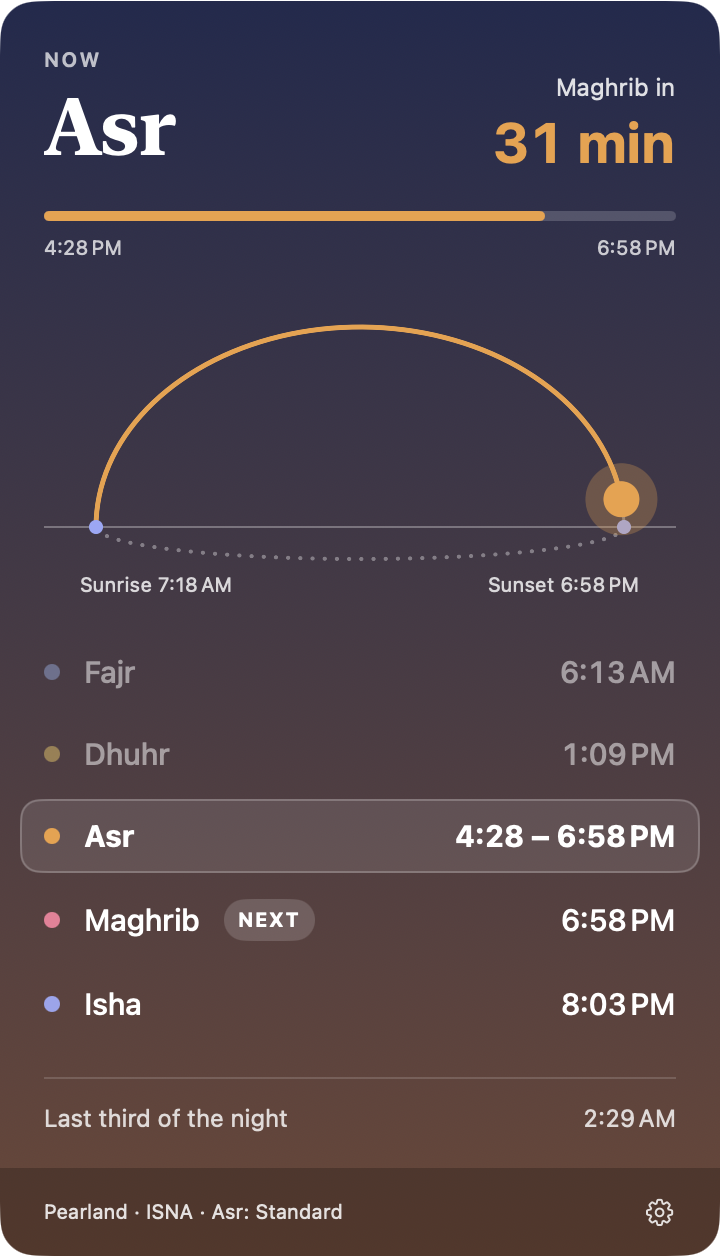
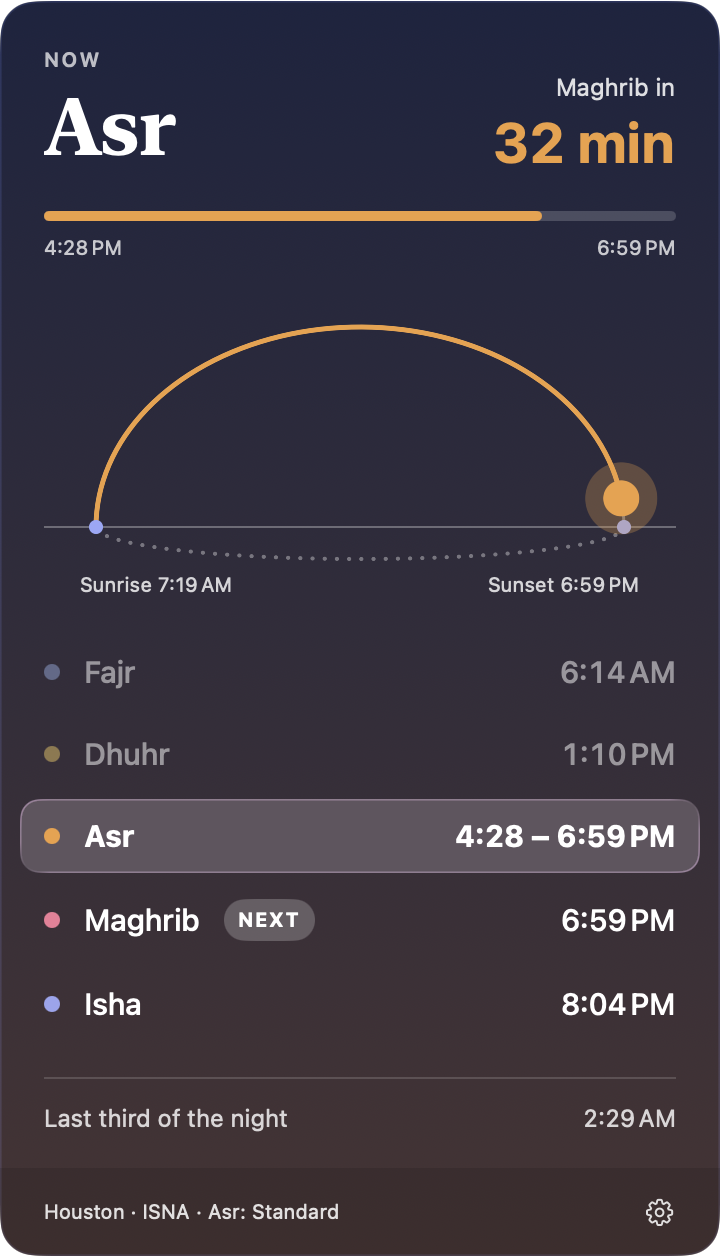
Make Liquid Glass the default card, v1.0.0
- Liquid Glass card on by default with a Settings toggle to turn it off
- README screenshot in Houston via hidden --debug-place launch argument
- README: Liquid Glass feature, settings entry, debug arguments
- Version 1.0.0

Changed region(s): [[0.0, 0.59, 1.0, 1.0], [0.7333, 0.0932, 0.7944, 0.1553], [0.825, 0.5279, 0.8861, 0.5589]]

diff --git a/Sources/Falah/App/AppDelegate.swift b/Sources/Falah/App/AppDelegate.swift
@@ -24,10 +24,20 @@ final class AppDelegate: NSObject, NSApplicationDelegate {
     private var scheduler: Scheduler?
     private var lastScheduleDay: Date?
     private var lastSnapshot: PrayerSnapshot?
+    private var debugPlace: SavedPlace?
 
     func applicationDidFinishLaunching(_ notification: Notification) {
         if clock.isFaked {
             Log.clock.notice("Debug time active: now = \(self.clock.now().formatted(date: .abbreviated, time: .standard), privacy: .public)")
+        }
+
+        // Hidden: calculate for a fixed place, e.g. --debug-place "Houston:29.7604:-95.3698"
+        // (for screenshots). Not saved to settings.
+        if let index = CommandLine.arguments.firstIndex(of: "--debug-place"), index + 1 < CommandLine.arguments.count {
+            let parts = CommandLine.arguments[index + 1].split(separator: ":")
+            if parts.count == 3, let lat = Double(parts[1]), let lon = Double(parts[2]) {
+                debugPlace = SavedPlace(name: String(parts[0]), latitude: lat, longitude: lon)
+            }
         }
 
         settingsWindow = SettingsWindowController(store: settings, environment: settingsEnvironment)
@@ -96,7 +106,7 @@ final class AppDelegate: NSObject, NSApplicationDelegate {
         cardModel.settings = settings.prayerSettings
         cardModel.style = settings.cardStyle
 
-        guard let place = settings.activePlace else {
+        guard let place = debugPlace ?? settings.activePlace else {
             cardModel.problem = location.status == .denied ? .locationDenied : .locating
             cardModel.snapshot = nil
             statusItemController?.showUnavailable()

diff --git a/Sources/Falah/UI/SettingsView.swift b/Sources/Falah/UI/SettingsView.swift
@@ -248,11 +248,10 @@ struct SettingsView: View {
     private var general: some View {
         Section("General") {
             if #available(macOS 26, *) {
-                Picker("Card style", selection: $store.cardStyle) {
-                    Text("Sky").tag(CardStyle.sky)
-                    Text("Liquid Glass").tag(CardStyle.glass)
-                }
-                .pickerStyle(.segmented)
+                Toggle("Liquid Glass card", isOn: Binding(
+                    get: { store.cardStyle == .glass },
+                    set: { store.cardStyle = $0 ? .glass : .sky }
+                ))
             }
             Toggle("Launch at login", isOn: $launchAtLogin)
                 .onChange(of: launchAtLogin) { _, enabled in setLaunchAtLogin(enabled) }

diff --git a/README.md b/README.md
@@ -17,6 +17,7 @@ It sits in your menu bar as a sun, a sunset or a moon, with the time of the next
   - Today's prayer times. The current prayer shows its range, the next one is marked, and earlier ones are dimmed.
   - The last third of the night.
 - **Sky colours:** dawn, day, sunset and night backgrounds that blend smoothly into each other, with stars at night.
+- **Liquid Glass:** on macOS 26 the card uses Apple's Liquid Glass, tinted with the sky. You can switch back to the solid sky card in Settings.
 - **Prayer moment:** at each prayer the menu bar item flashes (in a colour you choose) and a silent notification arrives: *It's time for Asr · 4:28 PM*. There's an optional reminder before each prayer.
 - **Settings:**
   - Location: automatic, or a typed city or coordinates.
@@ -24,6 +25,7 @@ It sits in your menu bar as a sun, a sunset or a moon, with the time of the next
   - Asr: Standard or Hanafi.
   - High-latitude rule.
   - Per-prayer adjustments of up to ±10 minutes to match your local masjid.
+  - Liquid Glass card on or off (macOS 26).
   - Launch at login.
 - **Light on battery:** it updates once a minute, on the minute. It has no per-second timers, and its animations only run while the card is open.
 
@@ -66,7 +68,10 @@ Hidden launch arguments fake the clock, so you don't have to wait for a prayer:
 ```sh
 open build/Falah.app --args --debug-time 2026-10-08T16:27:45            # 15 s before Asr
 open build/Falah.app --args --debug-time 2026-10-08T05:30 --debug-speed 300 --show-card   # watch a day in ~5 min
+open build/Falah.app --args --debug-place "Houston:29.7604:-95.3698" --show-card       # fixed place, not saved
 ```
+
+`--show-settings` opens the Settings window at launch.
 
 Logs: `log stream --predicate 'subsystem == "com.yusufkhan.falah"'`
 

diff --git a/experience.md b/experience.md
@@ -6,6 +6,22 @@ A running log of what we did, why, what broke, and what we learned. Each entry i
 
 ---
 
+## 2026-10-08 · Liquid Glass becomes the default; v1.0.0 touch-ups
+
+**Did**
+- User verdict on the glass card: **make it the default, with a toggle to turn it off**.
+  - Fast-forwarded `liquid-glass` into `main`.
+  - Settings → General now has a **"Liquid Glass card" toggle** (on by default; macOS 26 only), replacing the Sky/Glass segmented picker.
+- The README screenshot was retaken in **Houston**, not the user's real city, using a new hidden `--debug-place "Name:lat:lon"` launch argument. It overrides the location for that run without saving to settings.
+- README touch-ups: a Liquid Glass feature line and settings entry, plus `--debug-place` / `--show-settings` in the dev section.
+- **Version bumped to 1.0.0.** `scripts/make-release.sh` → universal `build/Falah.zip` (620 KB).
+- The user created and pushed the GitHub repo themselves: `github.com/ykhan-5/Falah` (`main` + `liquid-glass`). Pushing is left to the user.
+
+**Snags**
+- The card closed right after `--show-card` because the user was clicking elsewhere (the outside-click monitor did its job). Fixed by polling `CGWindowList` and capturing as soon as the window appeared.
+- `screencapture -R` around the glass card returned a black image, but `screencapture -l <windowID>` worked. The window capture renders glass without the desktop behind it, so the README image looks like a deeper-toned sky card.
+- The earlier 324×565 window size was a sleeping-display artifact. Awake, it reports 360×628.
+
 ## 2026-10-08 · Branch `liquid-glass`: native Liquid Glass card (experiment)
 
 **Did**
